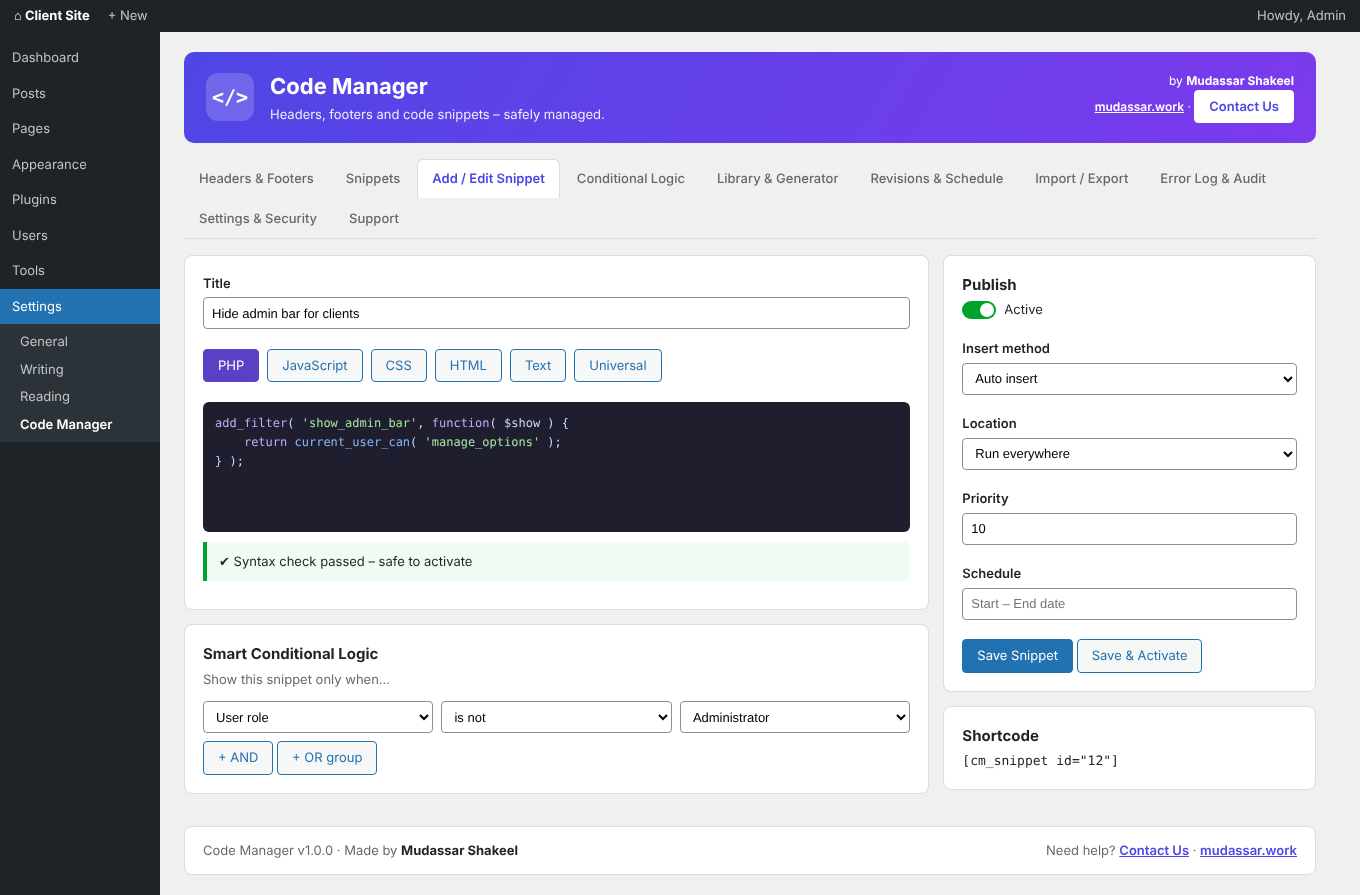
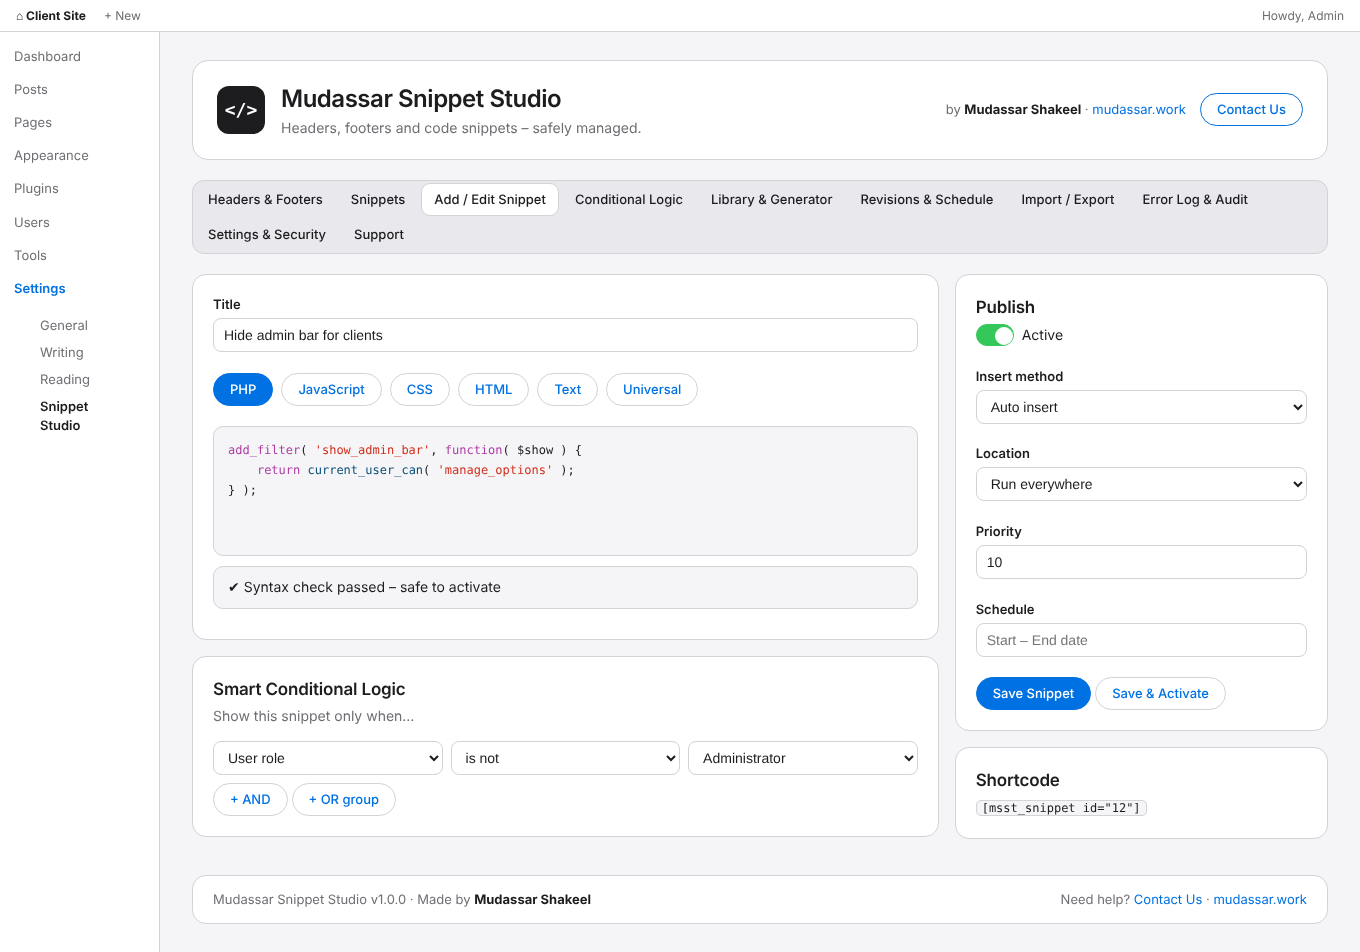
Redesign mockups: Apple-style flat UI, rename to Mudassar Snippet Studio
Claude-Session: https://claude.ai/code/session_01Wnv5mLbJN5qmmkgddADyLb

diff --git a/design/mockup.html b/design/mockup.html
@@ -1,48 +1,49 @@
 <!doctype html>
-<html><head><meta charset="utf-8"><title>Code Manager – Design Mockup</title>
+<html><head><meta charset="utf-8"><title>Mudassar Snippet Studio – Design Mockup</title>
 <style>
-:root{--blue:#2271b1;--ink:#1d2327;--mut:#646970;--line:#dcdcde;--bg:#f0f0f1;--brand:#4f46e5;--brand2:#7c3aed;--ok:#00a32a;--warn:#dba617;--err:#d63638}
-*{box-sizing:border-box}body{margin:0;font:13px/1.5 -apple-system,"Segoe UI",Roboto,sans-serif;background:var(--bg);color:var(--ink)}
-.bar{height:32px;background:#1d2327;color:#c3c4c7;display:flex;align-items:center;padding:0 14px;gap:18px;font-size:13px}
-.bar b{color:#fff}.bar .r{margin-left:auto}
+:root{--blue:#0071e3;--ink:#1d1d1f;--mut:#6e6e73;--line:#d2d2d7;--bg:#f5f5f7;--ok:#248a3d;--warn:#b25000;--err:#d70015;--fill:#f5f5f7}
+*{box-sizing:border-box}body{margin:0;font:14px/1.47 -apple-system,BlinkMacSystemFont,"SF Pro Text","Helvetica Neue",Helvetica,Arial,sans-serif;background:var(--bg);color:var(--ink);-webkit-font-smoothing:antialiased}
+.bar{height:32px;background:#fff;border-bottom:1px solid var(--line);color:var(--mut);display:flex;align-items:center;padding:0 16px;gap:18px;font-size:12px}
+.bar b{color:var(--ink)}.bar .r{margin-left:auto}
 .wrap{display:flex;min-height:calc(100vh - 32px)}
-.side{width:160px;background:#1d2327;color:#c3c4c7;padding-top:8px;flex:none}
-.side div{padding:8px 12px}.side .on{background:var(--blue);color:#fff}.side .sub{background:#2c3338;padding:4px 0}.side .sub div{padding:4px 12px 4px 20px;font-size:13px}.side .sub .cur{color:#fff;font-weight:600}
-.main{flex:1;padding:20px 24px;max-width:1180px}
-.hero{background:linear-gradient(120deg,var(--brand),var(--brand2));color:#fff;border-radius:10px;padding:18px 22px;display:flex;align-items:center;gap:16px;margin-bottom:16px}
-.logo{width:48px;height:48px;border-radius:12px;background:rgba(255,255,255,.18);display:grid;place-items:center;font:700 20px monospace}
-.hero h1{margin:0;font-size:22px;color:#fff}.hero p{margin:2px 0 0;opacity:.9}
-.hero .by{margin-left:auto;text-align:right;font-size:12px}.hero .by a{color:#fff;font-weight:600}
-.btn{display:inline-block;border-radius:4px;padding:6px 14px;border:1px solid var(--blue);background:var(--blue);color:#fff;font-size:13px}
-.btn.s{background:#f6f7f7;color:var(--blue)}.btn.w{background:#fff;color:var(--brand);border-color:#fff;font-weight:600}
-.tabs{display:flex;flex-wrap:wrap;gap:2px;border-bottom:1px solid var(--line);margin-bottom:16px}
-.tabs span{padding:9px 14px;color:var(--mut);border:1px solid transparent;border-bottom:0;border-radius:6px 6px 0 0;font-weight:500}
-.tabs .t{background:#fff;color:var(--brand);border-color:var(--line);margin-bottom:-1px;font-weight:600}
-.card{background:#fff;border:1px solid var(--line);border-radius:8px;padding:18px;margin-bottom:14px}
-.card h2{margin:0 0 4px;font-size:15px}.card .d{color:var(--mut);margin:0 0 12px}
-.grid{display:grid;gap:14px}.g2{grid-template-columns:1fr 1fr}.g3{grid-template-columns:repeat(3,1fr)}.g4{grid-template-columns:repeat(4,1fr)}
-textarea,.code{width:100%;font:12px/1.6 Menlo,Consolas,monospace;background:#1e1e2e;color:#cdd6f4;border:0;border-radius:6px;padding:12px;min-height:130px;white-space:pre;overflow:hidden}
-.code .c{color:#6c7086}.code .k{color:#cba6f7}.code .s{color:#a6e3a1}.code .f{color:#89b4fa}
-input.i,select.i{width:100%;padding:6px 8px;border:1px solid #8c8f94;border-radius:4px;background:#fff;font-size:13px;height:32px}
-label.l{display:block;font-weight:600;margin:0 0 4px}
-table{width:100%;border-collapse:collapse;background:#fff}th,td{text-align:left;padding:10px 12px;border-bottom:1px solid #f0f0f1}th{background:#f6f7f7;font-weight:600;color:#50575e;border-bottom:1px solid var(--line)}
-.pill{display:inline-block;padding:1px 8px;border-radius:99px;font-size:11px;font-weight:600}
-.php{background:#e8e4fb;color:#5b3fc4}.js{background:#fff3c4;color:#8a6d00}.css{background:#d9edff;color:#0a5aa8}.html{background:#ffe3d6;color:#b24a14}.txt{background:#e6e6e6;color:#444}
-.tg{display:inline-block;width:34px;height:18px;border-radius:99px;background:#ccc;position:relative;vertical-align:middle}.tg:after{content:"";position:absolute;top:2px;left:2px;width:14px;height:14px;border-radius:50%;background:#fff}.tg.on{background:var(--ok)}.tg.on:after{left:18px}
-.stat{text-align:center}.stat b{display:block;font-size:26px}.stat span{color:var(--mut)}
+.side{width:160px;background:#fff;border-right:1px solid var(--line);color:var(--mut);padding-top:8px;flex:none;font-size:13px}
+.side div{padding:7px 14px}.side .on{color:var(--blue);font-weight:600}.side .sub div{padding:4px 14px 4px 26px}.side .sub .cur{color:var(--ink);font-weight:600}
+.main{flex:1;padding:28px 32px;max-width:1200px}
+.hero{background:#fff;border:1px solid var(--line);border-radius:16px;padding:20px 24px;display:flex;align-items:center;gap:16px;margin-bottom:20px}
+.logo{width:48px;height:48px;border-radius:12px;background:var(--ink);color:#fff;display:grid;place-items:center;font:600 18px ui-monospace,SFMono-Regular,Menlo,monospace}
+.hero h1{margin:0;font-size:24px;font-weight:600;letter-spacing:-.02em}.hero p{margin:2px 0 0;color:var(--mut)}
+.hero .by{margin-left:auto;text-align:right;font-size:13px;color:var(--mut);display:flex;align-items:center;gap:14px}.hero .by b{color:var(--ink)}.hero .by a{color:var(--blue);text-decoration:none}
+.btn{display:inline-block;border-radius:980px;padding:6px 16px;border:1px solid var(--blue);background:var(--blue);color:#fff;font-size:13px;font-weight:500}
+.btn.s{background:#fff;color:var(--blue);border-color:var(--line)}.btn.w{background:#fff;color:var(--blue);border-color:var(--blue)}
+.tabs{display:flex;flex-wrap:wrap;gap:4px;margin-bottom:20px;background:#e8e8ed;border:1px solid var(--line);padding:3px;border-radius:12px}
+.tabs span{padding:6px 12px;color:var(--ink);border-radius:9px;font-weight:500;font-size:13px}
+.tabs .t{background:#fff;border:1px solid var(--line);margin:-1px 0}
+.card{background:#fff;border:1px solid var(--line);border-radius:14px;padding:20px;margin-bottom:16px}
+.card h2{margin:0 0 4px;font-size:17px;font-weight:600;letter-spacing:-.01em}.card .d{color:var(--mut);margin:0 0 14px}
+.grid{display:grid;gap:16px}.g2{grid-template-columns:1fr 1fr}.g3{grid-template-columns:repeat(3,1fr)}.g4{grid-template-columns:repeat(4,1fr)}
+textarea,.code{width:100%;font:12px/1.65 ui-monospace,SFMono-Regular,Menlo,monospace;background:var(--fill);color:var(--ink);border:1px solid var(--line);border-radius:10px;padding:14px;min-height:130px;white-space:pre;overflow:hidden}
+.code .c{color:var(--mut)}.code .k{color:#ad3da4}.code .s{color:#d12f1b}.code .f{color:#0b4f79}
+input.i,select.i{width:100%;padding:6px 10px;border:1px solid var(--line);border-radius:8px;background:#fff;font-size:14px;height:34px;color:var(--ink)}
+label.l{display:block;font-weight:600;margin:0 0 4px;font-size:13px}
+table{width:100%;border-collapse:collapse;background:#fff;border:1px solid var(--line);border-radius:14px;overflow:hidden}th,td{text-align:left;padding:11px 14px;border-bottom:1px solid #e8e8ed}th{background:var(--fill);font-weight:600;color:var(--mut);font-size:12px;text-transform:uppercase;letter-spacing:.04em}tr:last-child td{border-bottom:0}
+.card table{border-radius:10px}
+.pill{display:inline-block;padding:1px 9px;border-radius:99px;font-size:11px;font-weight:600;border:1px solid var(--line);background:#fff;color:var(--mut)}
+.php{color:#5e5ce6;border-color:#5e5ce6}.js{color:#b25000;border-color:#b25000}.css{color:#0071e3;border-color:#0071e3}.html{color:#d70015;border-color:#d70015}.txt{color:var(--mut)}
+.tg{display:inline-block;width:38px;height:22px;border-radius:99px;background:#e8e8ed;border:1px solid var(--line);position:relative;vertical-align:middle}.tg:after{content:"";position:absolute;top:2px;left:2px;width:16px;height:16px;border-radius:50%;background:#fff;border:1px solid var(--line)}.tg.on{background:#34c759;border-color:#34c759}.tg.on:after{left:18px;border-color:#fff}
+.stat{text-align:center}.stat b{display:block;font-size:30px;font-weight:600;letter-spacing:-.02em}.stat span{color:var(--mut)}
 .rule{display:flex;gap:8px;align-items:center;margin-bottom:8px}.rule .i{flex:1}
-.note{border-left:4px solid var(--ok);background:#f0fbf3;padding:10px 12px;border-radius:0 6px 6px 0;margin-bottom:10px}
-.note.w{border-color:var(--warn);background:#fff8e5}.note.e{border-color:var(--err);background:#fdf0f0}
-.foot{margin-top:18px;padding:14px 18px;background:#fff;border:1px solid var(--line);border-radius:8px;display:flex;align-items:center;gap:12px;color:var(--mut)}
-.foot b{color:var(--ink)}.foot a{color:var(--brand);font-weight:600}.foot .r{margin-left:auto}
-.diff .a{background:#e6ffec;color:#116329}.diff .d{background:#ffebe9;color:#82071e}
-.pg{display:none}.pg.show{display:block}
+.note{border:1px solid var(--line);background:var(--fill);padding:10px 14px;border-radius:10px;margin-bottom:10px}
+.note.w{border-color:#ffd9a8}.note.e{border-color:#ffb3ba}
+.foot{margin-top:20px;padding:14px 20px;background:#fff;border:1px solid var(--line);border-radius:14px;display:flex;align-items:center;gap:12px;color:var(--mut);font-size:13px}
+.foot b{color:var(--ink)}.foot a{color:var(--blue);text-decoration:none}.foot .r{margin-left:auto}
+.diff .a{background:#e9f8ee;color:#1a6b30}.diff .d{background:#fdecee;color:#a1121f}
 .sw{display:flex;gap:8px;align-items:center}
+code{font-family:ui-monospace,SFMono-Regular,Menlo,monospace;background:var(--fill);border:1px solid var(--line);border-radius:5px;padding:0 5px;font-size:12px}
 </style></head><body>
 <div class="bar"><b>⌂ Client Site</b><span>+ New</span><span class="r">Howdy, Admin</span></div>
 <div class="wrap">
 <div class="side"><div>Dashboard</div><div>Posts</div><div>Pages</div><div>Appearance</div><div>Plugins</div><div>Users</div><div>Tools</div>
-<div class="on">Settings</div><div class="sub"><div>General</div><div>Writing</div><div>Reading</div><div class="cur">Code Manager</div></div></div>
+<div class="on">Settings</div><div class="sub"><div>General</div><div>Writing</div><div>Reading</div><div class="cur">Snippet Studio</div></div></div>
 <div class="main" id="app"></div></div>
 
 <script>
@@ -60,7 +61,7 @@ headers:`<div class="grid g2" style="grid-template-columns:2fr 1fr">
 <label class="l">Google Tag Manager</label><input class="i" value="GTM-XXXXXXX"><br><br>
 <label class="l">Meta (Facebook) Pixel</label><input class="i" placeholder="Pixel ID"><br><br>
 <label class="l">TikTok Pixel</label><input class="i" placeholder="Pixel ID"></div>
-<div class="card"><h2>Who can edit?</h2><div class="note">Only users with <b>Code Manager</b> capability. Currently: Administrators.</div></div></div></div>`,
+<div class="card"><h2>Who can edit?</h2><div class="note">Only users with <b>Snippet Studio</b> capability. Currently: Administrators.</div></div></div></div>`,
 snippets:`<div class="grid g4" style="margin-bottom:14px"><div class="card stat"><b>24</b><span>Total snippets</span></div><div class="card stat"><b style="color:var(--ok)">19</b><span>Active</span></div><div class="card stat"><b style="color:var(--warn)">3</b><span>Scheduled</span></div><div class="card stat"><b style="color:var(--err)">1</b><span>Auto-disabled (error)</span></div></div>
 <div class="sw" style="margin-bottom:10px"><span class="btn">+ Add Snippet</span><span class="btn s">Bulk actions ▾</span><input class="i" style="width:240px;margin-left:auto" placeholder="Search snippets…"><select class="i" style="width:140px"><option>All types</option></select></div>
 <table><tr><th>☐</th><th>Title</th><th>Type</th><th>Location</th><th>Conditions</th><th>Priority</th><th>Status</th></tr>
@@ -68,11 +69,11 @@ snippets:`<div class="grid g4" style="margin-bottom:14px"><div class="card stat"
 <tr><td>☐</td><td><b>Facebook Pixel</b></td><td><span class="pill js">JS</span></td><td>Site-wide header</td><td>All pages</td><td>10</td><td><span class="tg on"></span></td></tr>
 <tr><td>☐</td><td><b>Free shipping banner</b></td><td><span class="pill html">HTML</span></td><td>Before content</td><td>WooCommerce: cart total &lt; $50</td><td>20</td><td><span class="tg on"></span></td></tr>
 <tr><td>☐</td><td><b>Custom button styles</b></td><td><span class="pill css">CSS</span></td><td>Site-wide header</td><td>Desktop only</td><td>10</td><td><span class="tg on"></span></td></tr>
-<tr><td>☐</td><td><b>Black Friday banner</b> <span class="pill" style="background:#fff3c4;color:#8a6d00">Scheduled</span></td><td><span class="pill html">HTML</span></td><td>After paragraph 2</td><td>Posts</td><td>10</td><td><span class="tg"></span></td></tr>
-<tr><td>☐</td><td><b>Legacy redirect</b> <span class="pill" style="background:#fbe0e0;color:#a21c1e">Error – auto-disabled</span></td><td><span class="pill php">PHP</span></td><td>Run everywhere</td><td>—</td><td>5</td><td><span class="tg"></span></td></tr></table>`,
+<tr><td>☐</td><td><b>Black Friday banner</b> <span class="pill" style="color:#b25000;border-color:#b25000">Scheduled</span></td><td><span class="pill html">HTML</span></td><td>After paragraph 2</td><td>Posts</td><td>10</td><td><span class="tg"></span></td></tr>
+<tr><td>☐</td><td><b>Legacy redirect</b> <span class="pill" style="color:#d70015;border-color:#d70015">Error – auto-disabled</span></td><td><span class="pill php">PHP</span></td><td>Run everywhere</td><td>—</td><td>5</td><td><span class="tg"></span></td></tr></table>`,
 edit:`<div class="grid" style="grid-template-columns:2fr 1fr">
 <div><div class="card"><label class="l">Title</label><input class="i" value="Hide admin bar for clients"><br><br>
-<div class="sw"><span class="btn" style="background:#5b3fc4;border-color:#5b3fc4">PHP</span><span class="btn s">JavaScript</span><span class="btn s">CSS</span><span class="btn s">HTML</span><span class="btn s">Text</span><span class="btn s">Universal</span></div><br>
+<div class="sw"><span class="btn">PHP</span><span class="btn s">JavaScript</span><span class="btn s">CSS</span><span class="btn s">HTML</span><span class="btn s">Text</span><span class="btn s">Universal</span></div><br>
 ${code('<span class="k">add_filter</span>( <span class="s">\'show_admin_bar\'</span>, <span class="k">function</span>( $show ) {\n    <span class="k">return</span> <span class="f">current_user_can</span>( <span class="s">\'manage_options\'</span> );\n} );')}
 <div class="note" style="margin-top:10px">✔ Syntax check passed – safe to activate</div></div>
 <div class="card"><h2>Smart Conditional Logic</h2><p class="d">Show this snippet only when…</p>
@@ -84,7 +85,7 @@ ${code('<span class="k">add_filter</span>( <span class="s">\'show_admin_bar\'</s
 <label class="l">Priority</label><input class="i" value="10"><br><br>
 <label class="l">Schedule</label><input class="i" placeholder="Start – End date"><br><br>
 <span class="btn">Save Snippet</span> <span class="btn s">Save &amp; Activate</span></div>
-<div class="card"><h2>Shortcode</h2><code>[cm_snippet id="12"]</code></div></div></div>`,
+<div class="card"><h2>Shortcode</h2><code>[msst_snippet id="12"]</code></div></div></div>`,
 conditions:`<div class="card"><h2>Conditional Logic Builder</h2><p class="d">Combine rules with AND / OR. Everything below is built in – no upsell.</p>
 <div class="note">Show snippet if <b>ALL</b> of the following match:</div>
 <div class="rule"><select class="i"><option>Page type</option></select><select class="i"><option>is</option></select><select class="i"><option>Single post</option></select><span class="btn s">✕</span></div>
@@ -105,18 +106,18 @@ logs:`<div class="grid g2"><div class="card"><h2>Error Log</h2><div class="note 
 settings:`<div class="grid g2"><div class="card"><h2>General</h2>
 <div class="sw"><span class="tg on"></span> Enable PHP snippets</div><br><div class="sw"><span class="tg"></span> Test mode (disable all snippets for me)</div><br><div class="sw"><span class="tg"></span> Delete all data on uninstall</div><br><div class="sw"><span class="tg on"></span> Auto-disable snippet on fatal error</div><br><span class="btn">Save Settings</span></div>
 <div class="card"><h2>Security</h2>
-<div class="note">✔ Capability: <code>manage_code_snippets</code> (Administrators)</div>
+<div class="note">✔ Capability: <code>msst_manage_snippets</code> (Administrators)</div>
 <div class="note">✔ Nonce &amp; capability on every action</div>
 <div class="note">✔ Integrity check: snippets changed outside the plugin are blocked</div>
-<div class="note w">Recovery URL for safe mode (keep secret):<br><code>/?cm_safe_mode=••••••••</code> <span class="btn s">Regenerate</span></div></div></div>`,
-support:`<div class="grid g2"><div class="card" style="text-align:center;padding:30px"><div class="logo" style="margin:0 auto 10px;background:linear-gradient(120deg,var(--brand),var(--brand2));color:#fff">&lt;/&gt;</div><h2 style="font-size:18px">Code Manager</h2><p class="d">Version 1.0.0 · Built by <b>Mudassar Shakeel</b></p><span class="btn">Contact Support</span> <span class="btn s">Visit mudassar.work</span></div>
-<div class="card"><h2>Contact Us</h2><label class="l">Your name</label><input class="i"><br><br><label class="l">Email</label><input class="i"><br><br><label class="l">Message</label><textarea style="background:#fff;color:#000;border:1px solid #8c8f94;min-height:80px"></textarea><br><br><span class="btn">Send message</span><p class="d" style="margin-top:8px">Site info is attached only if you tick the box. Nothing is sent automatically.</p></div></div>`
+<div class="note w">Recovery URL for safe mode (keep secret):<br><code>/?msst_safe_mode=••••••••</code> <span class="btn s">Regenerate</span></div></div></div>`,
+support:`<div class="grid g2"><div class="card" style="text-align:center;padding:30px"><div class="logo" style="margin:0 auto 10px;">&lt;/&gt;</div><h2 style="font-size:20px">Mudassar Snippet Studio</h2><p class="d">Version 1.0.0 · Built by <b>Mudassar Shakeel</b></p><span class="btn">Contact Support</span> <span class="btn s">Visit mudassar.work</span></div>
+<div class="card"><h2>Contact Us</h2><label class="l">Your name</label><input class="i"><br><br><label class="l">Email</label><input class="i"><br><br><label class="l">Message</label><textarea style="background:#fff;min-height:80px"></textarea><br><br><span class="btn">Send message</span><p class="d" style="margin-top:8px">Site info is attached only if you tick the box. Nothing is sent automatically.</p></div></div>`
 };
 const q=new URLSearchParams(location.search);const cur=q.get('tab')||'headers';
 const t=TABS.map(([k,n])=>`<span class="${k==cur?'t':''}">${n}</span>`).join('');
 document.getElementById('app').innerHTML=`
-<div class="hero"><div class="logo">&lt;/&gt;</div><div><h1>Code Manager</h1><p>Headers, footers and code snippets – safely managed.</p></div>
-<div class="by">by <b>Mudassar Shakeel</b><br><a href="#">mudassar.work</a> · <span class="btn w">Contact Us</span></div></div>
+<div class="hero"><div class="logo">&lt;/&gt;</div><div><h1>Mudassar Snippet Studio</h1><p>Headers, footers and code snippets – safely managed.</p></div>
+<div class="by"><span>by <b>Mudassar Shakeel</b> · <a href="#">mudassar.work</a></span><span class="btn w">Contact Us</span></div></div>
 <div class="tabs">${t}</div>${pages[cur]}
-<div class="foot"><span>Code Manager v1.0.0 · Made by <b>Mudassar Shakeel</b></span><span class="r">Need help? <a href="#">Contact Us</a> · <a href="#">mudassar.work</a></span></div>`;
+<div class="foot"><span>Mudassar Snippet Studio v1.0.0 · Made by <b>Mudassar Shakeel</b></span><span class="r">Need help? <a href="#">Contact Us</a> · <a href="#">mudassar.work</a></span></div>`;
 </script></body></html>
